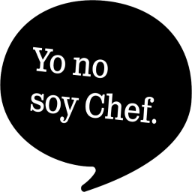
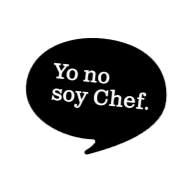
Final fixes

diff --git a/src/pages/index.tsx b/src/pages/index.tsx
@@ -1,6 +1,7 @@
-// import { useEffect } from 'react';
+import { forwardRef } from 'react';
 import { Grid, Avatar, Typography, Fade, Slide, Tooltip } from '@mui/material';
 import IconLink from '../mui/IconLink';
+
 // TODO: Add Helmet
 // export const meta: MetaFunction = () => {
 //   return [
@@ -8,64 +9,86 @@ import IconLink from '../mui/IconLink';
 //     { name: 'description', content: 'Bienvenidos a yo no soy chef' },
 //   ];
 // };
+interface LinkIconProps {
+  name: string;
+  url: string;
+}
+// eslint-disable-next-line react/display-name
+const LinkIcon = forwardRef<HTMLElement, LinkIconProps>(({ name, url }) => (
+  <IconLink
+    name={name}
+    url={url}
+  />
+));
 
 const Index = () => {
-  // useEffect(() => {
-  // }, []);
-
   return (
     <Grid
       container
       rowSpacing={4}
       columnSpacing={{ xs: 1, sm: 2, md: 3 }}
     >
-      <Slide
-        in
-        direction="down"
-        timeout={{ appear: 500, enter: 300 }}
-      >
-        <Avatar
-          alt="Yo no soy Chef."
-          src="/logo.png"
-          variant="square"
-          sx={{
-            width: '100%',
-            height: 128,
-            justifySelf: 'center',
-            margin: 'auto',
-            marginBottom: 8,
-
-            img: {
-              objectFit: 'contain',
-            },
-          }}
-        />
-      </Slide>
-      <Fade
-        in
-        timeout={{ appear: 1500, enter: 1300 }}
-      >
-        <Typography
-          variant="h1"
-          gutterBottom
-        >
-          Todos los días serán viernes...
-        </Typography>
-      </Fade>
-      <Fade
-        in
-        timeout={{ appear: 2500, enter: 2300 }}
-      >
-        <Typography
-          variant="h3"
-          gutterBottom
-        >
-          ...pronto
-        </Typography>
-      </Fade>
       <Grid
         item
         xs={12}
+      >
+        <Slide
+          in
+          direction="down"
+          timeout={{ appear: 500, enter: 300 }}
+        >
+          <Avatar
+            alt="Yo no soy Chef."
+            src="/logo.svg"
+            variant="square"
+            sx={{
+              width: 192,
+              height: 192,
+              justifySelf: 'center',
+              margin: 'auto',
+
+              img: {
+                objectFit: 'contain',
+              },
+            }}
+          />
+        </Slide>
+      </Grid>
+      <Grid item>
+        <Fade
+          in
+          timeout={{ appear: 1500, enter: 1300 }}
+        >
+          <Typography
+            variant="h1"
+            gutterBottom
+          >
+            Todos los días serán viernes...
+          </Typography>
+        </Fade>
+      </Grid>
+      <Grid
+        item
+        xs={12}
+      >
+        <Fade
+          in
+          timeout={{ appear: 2500, enter: 2300 }}
+        >
+          <Typography
+            variant="h3"
+            gutterBottom
+          >
+            Pronto.
+          </Typography>
+        </Fade>
+      </Grid>
+      <Grid
+        item
+        xs={12}
+        sx={{
+          marginTop: 3,
+        }}
       >
         <Fade
           in
@@ -73,25 +96,19 @@ const Index = () => {
         >
           <div>
             <Tooltip title="Instagram">
-              <IconLink
+              <LinkIcon
                 name="instagram"
                 url="https://instagram.com/yonosoychef"
               />
             </Tooltip>
-            <Tooltip title="Facebook">
-              <IconLink
-                name="facebook"
-                url="https://www.facebook.com/yonosoychef"
-              />
-            </Tooltip>
             <Tooltip title="Whatsapp">
-              <IconLink
+              <LinkIcon
                 name="whatsapp"
                 url="https://wa.link/d76aiy"
               />
             </Tooltip>
             <Tooltip title="Menu">
-              <IconLink
+              <LinkIcon
                 name="menu"
                 url="/menu.pdf"
               />

diff --git a/src/mui/theme.ts b/src/mui/theme.ts
@@ -1,13 +1,34 @@
 import { createTheme } from '@mui/material/styles';
 import { common, red } from '@mui/material/colors';
 
+const xs = '@media (max-width:600px)';
 // Create a theme instance.
 const theme = createTheme({
+  components: {
+    MuiContainer: {
+      styleOverrides: {
+        root: {
+          width: '600px',
+          height: '100vh',
+          display: 'flex',
+          alignItems: 'center',
+          [xs]: {
+            width: '80vw',
+          },
+        },
+      },
+    },
+  },
   typography: {
     fontFamily: ['Playfair Display', 'serif'].join(','),
     h1: {
-      '@media (max-width:600px)': {
-        fontSize: '4.5rem',
+      [xs]: {
+        fontSize: '3.5rem',
+      },
+    },
+    h3: {
+      [xs]: {
+        fontSize: '2.5rem',
       },
     },
   },

diff --git a/src/mui/Layout.tsx b/src/mui/Layout.tsx
@@ -2,18 +2,7 @@ import * as React from 'react';
 import Container from '@mui/material/Container';
 
 const Layout = ({ children }: { children: React.ReactNode }) => {
-  return (
-    <Container
-      maxWidth="sm"
-      sx={{
-        height: '100vh',
-        display: 'flex',
-        alignItems: 'center',
-      }}
-    >
-      {children}
-    </Container>
-  );
+  return <Container>{children}</Container>;
 };
 
 export default Layout;

diff --git a/src/mui/IconLink.tsx b/src/mui/IconLink.tsx
@@ -1,4 +1,3 @@
-import * as React from 'react';
 import { Link } from '@mui/material';
 import {
   Instagram,
